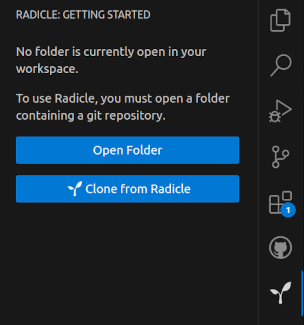
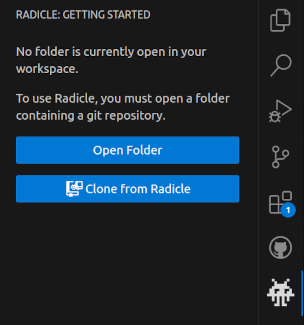
fix: update to radicle's new alien branding
Brings new icons, marketplace branding as well as updated
readme screenshots

Changed region(s): [[0.8586, 0.8615, 0.977, 0.9538], [0.2072, 0.5538, 0.2961, 0.6154]]

diff --git a/CHANGELOG.md b/CHANGELOG.md
@@ -5,6 +5,11 @@
 ### 🩹 Fixes
 
 - **commands:** replace pre-heartwood, now deprecated rad pull/push commands with fetch/announce across multiple UI locations ([#42](https://github.com/cytechmobile/radicle-vscode-extension/issues/42))
+- update from from old (seedling) to new (alien) Radicle logo and branding ([#56](https://github.com/cytechmobile/radicle-vscode-extension/issues/56))
+
+### 📖 Documentation
+
+- **readme:** update screenshots to show the UI updated with the new branding ([#56](https://github.com/cytechmobile/radicle-vscode-extension/issues/56))
 
 -----
 
